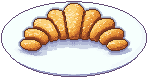
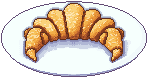
可颂两头改成收细的尖角；杨桃切面重画；果盘水果整体往前挪
她：「最下面两个依旧像椭圆，跟我给你的参考图不太像」「杨桃里面的颜色有点奇怪」
「水果整体应该向下移动一点，现在盘子的底下空出来了」。

- pixelkit 加 `round_cone(a, b, r1, r2)`（两头圆的锥）
- 可颂：最外两节不再是椭圆，换成从第三节里面伸出去、分两段越来越细（0.3 → 0.16 → 0.035）、
  沿弧往外往下弯的尖角，压在上一节底下
- 杨桃：皮是绿的一圈；切面果肉是比外形小一圈的浅黄绿星形；中间五条浅色短线组成小五角星纹，
  中段五颗棕色籽（以前一块浅色圆 + 深色竖线，看不出是什么）
- 果盘：所有水果往前挪 0.45，填上盘子前面的空

diff --git a/scripts/px_tabletop.py b/scripts/px_tabletop.py
@@ -34,7 +34,7 @@ import numpy as np
 from PIL import Image, ImageDraw, ImageFont
 
 from pixelkit import (Material, Scene, box, capsule, crop, cylinder, ellipsoid, hashv,
-                      lathe, speckle, sphere, steam, torus, tri_prism)
+                      lathe, round_cone, speckle, sphere, steam, torus, tri_prism)
 
 OUT = os.path.join(ROOT, "Qi", "Resources", "furniture")
 LOOK = os.path.join(ROOT, "_看一眼")
@@ -531,7 +531,9 @@ def croissant(s, R, T):
     # 弧心在前面：中间那节在后、两头的尖朝观察者弯过来，斜俯视下看得出是个「C」
     C = T * 1.05
     levels = [1.0, 0.82, 0.64, 0.47, 0.32]
-    order = [0, -1, 1, -2, 2, -3, 3, -4, 4]
+    # ⚠ 最外面那两节**不是椭圆**，是从倒数第二节伸出去、越来越细的尖角（见循环后面）。
+    # 她：「最下面两个依旧像椭圆」——参考图里两头是收细带尖的角，压在上一节底下。
+    order = [0, -1, 1, -2, 2, -3, 3]
     for j in order:
         lv = levels[abs(j)]
         ang = math.radians(j * 19)
@@ -545,6 +547,17 @@ def croissant(s, R, T):
         s.add(along(ellipsoid(a, c, b), tang).at(d[0], 0.2 + c * 0.85, d[2]), doughs[abs(j) % 2], g)
         s.decal((lambda p: ((p[..., 1] > 0.35 * c) & (np.abs(p[..., 2]) < 0.45 * b) & (np.abs(p[..., 0]) < 0.4 * a),
                             shine_m)), g)
+    # 两头的尖角：从第 3 节里面出发，沿弧往外、往下弯，半径收到很细
+    for sgn in (-1, 1):
+        a0 = math.radians(sgn * 3 * 19)
+        a1 = math.radians(sgn * 4.6 * 19)
+        a2 = math.radians(sgn * 5.6 * 19)
+        base = C + R * math.sin(a0) * RAD - T * math.cos(a0) * RAD + np.array([0, 0.36, 0])
+        mid = C + R * math.sin(a1) * RAD * 0.98 - T * math.cos(a1) * RAD * 0.98 + np.array([0, 0.28, 0])
+        tip = C + R * math.sin(a2) * RAD * 0.9 - T * math.cos(a2) * RAD * 0.9 + np.array([0, 0.2, 0])
+        g = "horn%d" % (sgn + 1)
+        s.add(round_cone(base, mid, 0.3, 0.16), doughs[1], g)
+        s.add(round_cone(mid, tip, 0.16, 0.035), doughs[1], g + "t")
 
 
 @item("fruitbowl", "果盘", units=4.6, ty=0.8, h=0.95)
@@ -571,13 +584,16 @@ def fruitbowl(s, R, T):
     blue = M("blue", "#4F5FB8", steps=6, gloss=0.7, grain=0.35, streak=0.5)
     bluecrown = M("bluecrown", "#2F3A7A", steps=2)
     mango = M("mango", "#FFC54A", steps=6, grain=0.4, streak=0.35)
-    star = M("star", "#B9DB6A", steps=6, grain=0.3, streak=0.3)
-    starin = M("starin", "#E9F2B8", steps=3)
+    star = M("star", "#9BCB4E", steps=6, grain=0.15)
+    starin = M("starin", "#E4EFA6", steps=4, grain=0.2, shine=0.8)
+    starcore = M("starcore", "#F7F9DC", steps=2)
+    starseed = M("starseed", "#8A6A3A", colors=hexes("#6E4F2A", "#8A6A3A"))
     pick = M("pick", "#C9A06A", steps=3)
     from pixelkit import Shape
 
+    # 整盘水果往前挪 0.45：她说「水果整体应该向下移动一点，现在盘子的底下空出来了」
     def P(r, t, y):
-        return R * r + T * t + np.array([0, y, 0])
+        return R * r + T * (t + 0.45) + np.array([0, y, 0])
 
     # ── 后排 ────────────────────────────
     # 西瓜：两大块三角立着，一前一后错开
@@ -627,8 +643,20 @@ def fruitbowl(s, R, T):
         g = "star%d" % i
         s.add(aim(star_prism(0.55, 0.1), T + R * (-0.2 + 0.3 * i) + np.array([0, 0.6, 0])).rot("y", 0).at(*P(r, t, 0.55)),
               star, g)
-        s.decal((lambda p: ((np.hypot(p[..., 0], p[..., 2]) < 0.3) & (np.abs(p[..., 1]) > 0.05), starin)), g)
-        s.decal((lambda p: ((np.hypot(p[..., 0], p[..., 2]) < 0.06) & (np.abs(p[..., 1]) > 0.05), seed_m)), g)
+        def star_r(p, ro):
+            th = np.arctan2(p[..., 2], p[..., 0])
+            return ro * (0.52 + 0.48 * np.abs(np.cos(2.5 * th)) ** 2.2)
+
+        face_ = lambda p: np.abs(p[..., 1]) > 0.07          # 切面（不是侧边那圈皮）
+        rho = lambda p: np.hypot(p[..., 0], p[..., 2])
+        # 果肉：比外形小一圈的星形
+        s.decal((lambda p: (face_(p) & (rho(p) < star_r(p, 0.55) * 0.8), starin)), g)
+        # 中间的小五角星纹：五条从中心出去的短线
+        s.decal((lambda p: (face_(p) & (rho(p) < 0.24)
+                            & (np.abs(((np.arctan2(p[..., 2], p[..., 0]) / (math.tau / 5)) % 1) - 0.5) > 0.42), starcore)), g)
+        # 五颗籽：在五条线的中段
+        s.decal((lambda p: (face_(p) & (np.abs(rho(p) - 0.15) < 0.035)
+                            & (np.abs(((np.arctan2(p[..., 2], p[..., 0]) / (math.tau / 5)) % 1) - 0.5) > 0.4), starseed)), g)
     # 蓝莓：一堆挤在前面正中
     for k in range(13):
         a = k * 2.4

diff --git a/.claude/skills/pixel-art/pixelkit.py b/.claude/skills/pixel-art/pixelkit.py
@@ -260,6 +260,32 @@ def capsule(a, b, r):
     return Shape(f, _len(b - a) + r)
 
 
+def round_cone(a, b, r1, r2):
+    """从 a（半径 r1）到 b（半径 r2）的圆头锥。可颂的尖角、牛角、胡萝卜、笔尖用它。"""
+    a = np.array(a, float)
+    b = np.array(b, float)
+    ba = b - a
+    l2 = float(np.dot(ba, ba))
+    rr = r1 - r2
+    a2 = l2 - rr * rr
+    il2 = 1.0 / l2
+
+    def f(p):
+        pa = p - a
+        y = np.sum(pa * ba, -1)
+        z = y - l2
+        xv = pa * l2 - y[..., None] * ba
+        x2 = np.sum(xv * xv, -1)
+        y2 = y * y * l2
+        z2 = z * z * l2
+        k = np.sign(rr) * rr * rr * x2
+        d_tip = np.sqrt(x2 + z2) * il2 - r2
+        d_base = np.sqrt(x2 + y2) * il2 - r1
+        d_side = (np.sqrt(x2 * a2 * il2) + y * rr) * il2 - r1
+        return np.where(np.sign(z) * a2 * z2 > k, d_tip, np.where(np.sign(y) * a2 * y2 < k, d_base, d_side))
+    return Shape(f, math.sqrt(l2) + max(r1, r2))
+
+
 def lathe(profile):
     """车床体：绕 y 轴转一圈的轮廓。`profile` = [(r, y), ...]，**首尾要落在轴上**（r=0），
     按顺序围成一个封闭多边形。杯子、瓶子、蜡烛、花瓶、蛋糕都用它。
